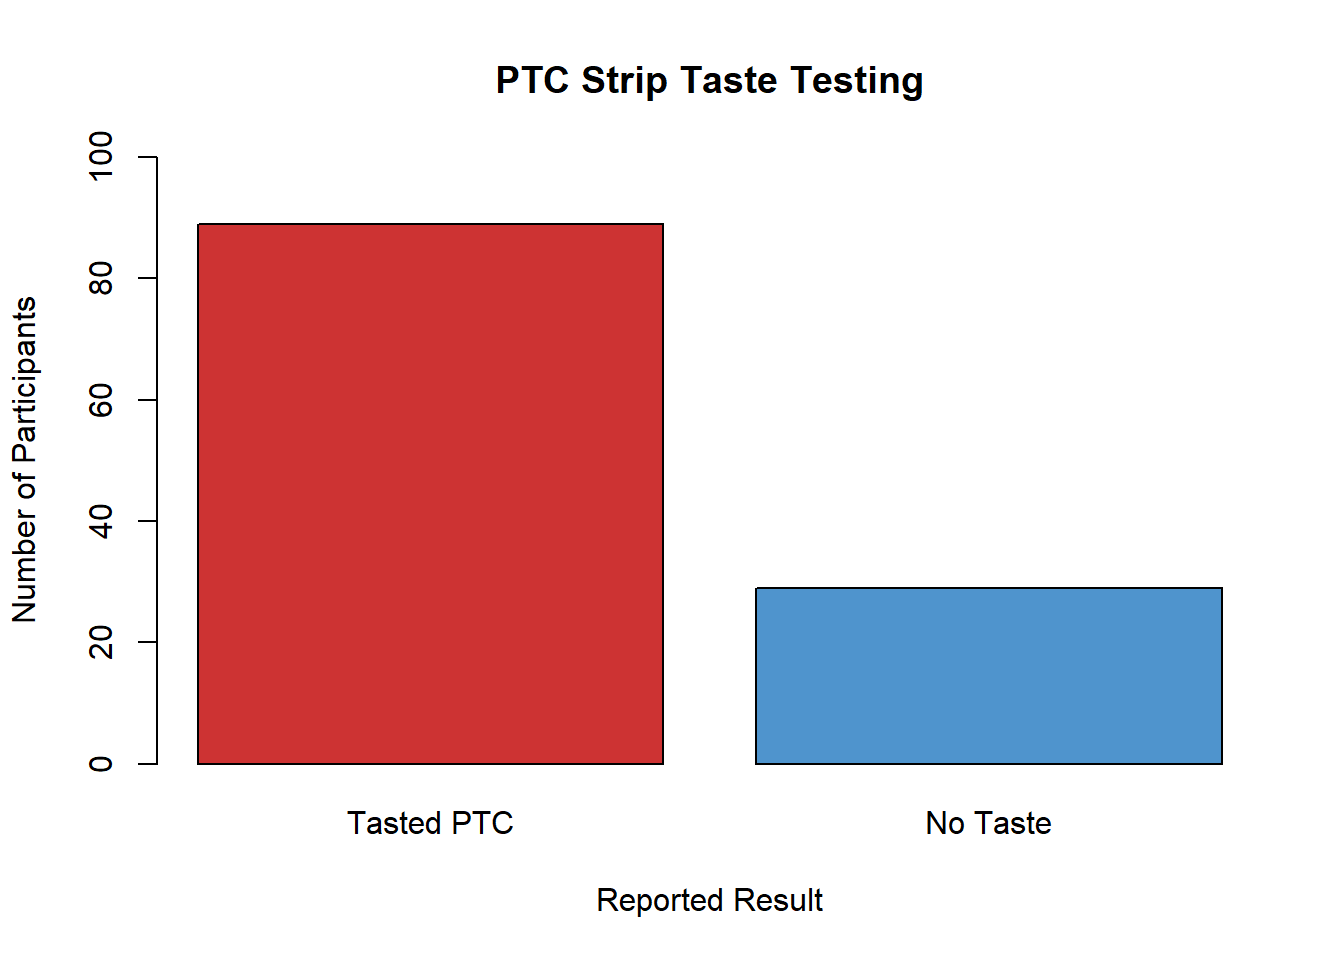
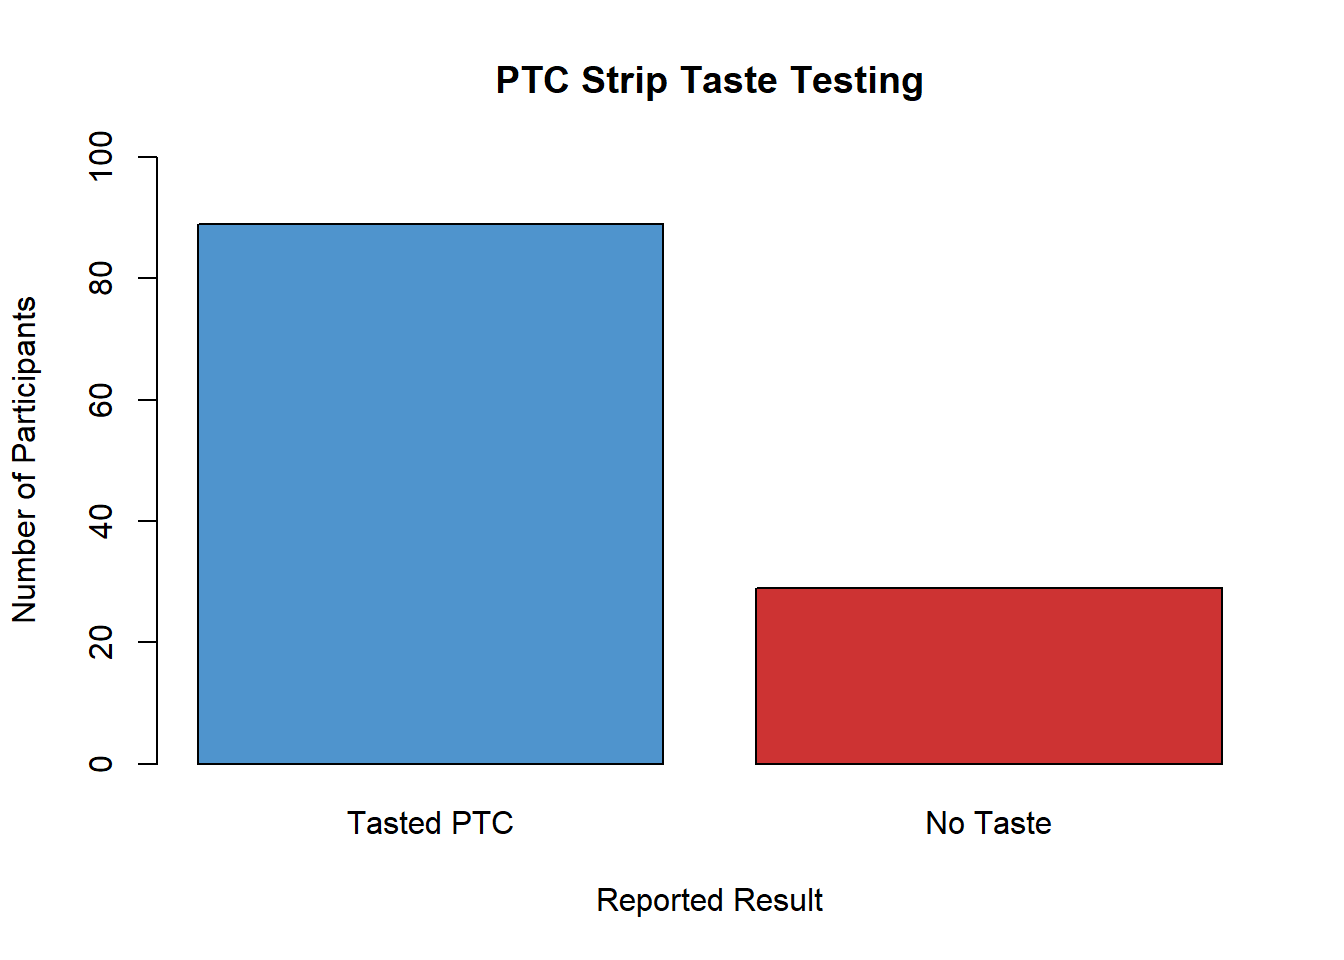
Revised one and two proportion functions and L17

Changed region(s): [[0.125, 0.2188, 0.5, 0.8125], [0.5625, 0.5938, 0.9062, 0.8125]]

diff --git a/docs/Lesson17.html b/docs/Lesson17.html
@@ -470,7 +470,7 @@ $(document).ready(function () {
 <pre class="r"><code>mytable &lt;- c(`Tasted PTC` = 89, `No Taste` = 29)
 
 barplot(mytable, 
-        col = c(&quot;brown3&quot;,&quot;steelblue3&quot;),
+        col = c(&quot;steelblue3&quot;, &quot;brown3&quot;),
         main = &quot;PTC Strip Taste Testing&quot;,
         xlab = &quot;Reported Result&quot;,
         ylab = &quot;Number of Participants&quot;,
@@ -507,9 +507,7 @@ R Instructions
 <p>When, the above <code>one_prop_test(...)</code> code is run in RStudio, it produces the following results. The output is formatted similar to R output you have seen in the past.</p>
 <pre class="r"><code>one_prop_test(x = 89, n = 118, p = 0.70, alternative = &quot;two.sided&quot;)</code></pre>
 <p><img src="Lesson17_files/figure-html/unnamed-chunk-4-1.png" width="672" /></p>
-<pre><code>## 
-## 
-##     One Proportion z-Test    
+<pre><code>##     One Proportion z-Test    
 ##  
 ##    Check for normality of p^:     
 ## Hypothesis Test: 
@@ -603,9 +601,7 @@ Answer the following question:
 <p>Among the <span class="math inline">\(n = 40\)</span> observed indicators of health, <span class="math inline">\(x = 19\)</span> suggested good health. We enter this information into the <code>one_prop_test(...)</code> function:</p>
 <pre class="r"><code>one_prop_test(x = 19, n = 40, p = 0.60, alternative = &quot;less&quot;)</code></pre>
 <p><img src="Lesson17_files/figure-html/unnamed-chunk-5-1.png" width="672" /></p>
-<pre><code>## 
-## 
-##     One Proportion z-Test    
+<pre><code>##     One Proportion z-Test    
 ##  
 ##    Check for normality of p^:     
 ## Hypothesis Test: 
@@ -813,9 +809,7 @@ R Instructions
 <p>When, the <code>one_prop_test(...)</code> code is run in RStudio, it produces the following results. The output is formatted similar to R output you have seen in the past.</p>
 <pre class="r"><code>one_prop_test(x = 89, n = 118, conf.level = 0.95)</code></pre>
 <p><img src="Lesson17_files/figure-html/unnamed-chunk-9-1.png" width="672" /></p>
-<pre><code>## 
-## 
-##     One Proportion z-Test    
+<pre><code>##     One Proportion z-Test    
 ##  
 ##    Check for normality of p^:     
 ## Hypothesis Test: 
@@ -856,9 +850,7 @@ Answer the following questions:
 <div id="Q0" style="display:none;">
 <pre class="r"><code>one_prop_test(x = 114, n = 2426, conf.level = 0.99)</code></pre>
 <p><img src="Lesson17_files/figure-html/unnamed-chunk-10-1.png" width="672" /></p>
-<pre><code>## 
-## 
-##     One Proportion z-Test    
+<pre><code>##     One Proportion z-Test    
 ##  
 ##    Check for normality of p^:     
 ## Hypothesis Test: 
